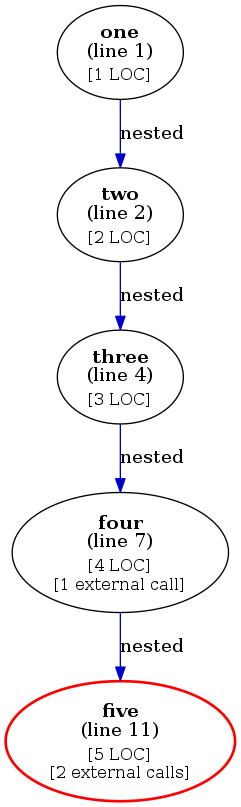
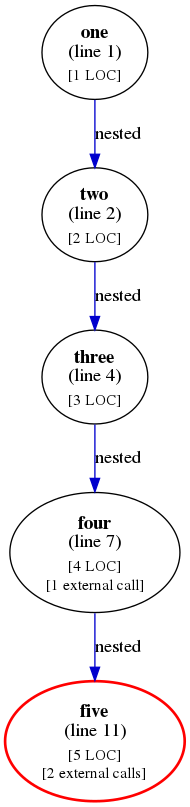
Compute stats outside PrintDot()
PrintDot should only contain logic related to the creation of dot files.

Move the code that generates stats in the Node and CodeLine classes.

diff --git a/callgraph/callgraph.py b/callgraph/callgraph.py
@@ -18,8 +18,12 @@ class CodeLine:
         self.text = text
         self.terminating = terminating
         self.noop = noop
-
         self.commands = []
+        self.commands_counter = collections.Counter()
+
+    def AddCommand(self, command):
+        self.commands.append(command)
+        self.commands_counter[command.command] += 1
 
     def __repr__(self):
         return "[{0} (terminating: {1}, noop: {2})] {3}".format(self.number, self.terminating, self.noop, self.text)
@@ -40,13 +44,24 @@ class Node:
         self.original_name = name
         self.is_exit_node = False
         self.code = []
+        self.loc = 0
 
     def AddConnection(self, dst, kind, line_number=NO_LINE_NUMBER):
         self.connections.add(Connection(dst, kind, line_number))
     
     def AddCodeLine(self, line_number, code):
         self.code.append(CodeLine(line_number, code.strip().lower(), False))
+        self.loc += 1
+    
+    def GetCommandCount(self):
+        node_counter = collections.Counter()
 
+        for line in self.code:
+            for command, count in line.commands_counter.items():
+                node_counter[command] += count
+        
+        return node_counter
+    
     def __repr__(self):
         return "{0}. {1}, {2}".format(self.name, self.code, self.connections)
 
@@ -94,25 +109,25 @@ class CallGraph:
                     block_name = tokens[i+1][1:]
                     if not block_name:
                         continue
-                    line.commands.append(Command("goto", block_name))
+                    line.AddCommand(Command("goto", block_name))
                     continue
 
                 if token == "call" or token == "@call":
                     target = tokens[i+1]
                     if target[0] != ":":
-                        line.commands.append(Command("external_call", target))
+                        line.AddCommand(Command("external_call", target))
                         continue
                     block_name = target[1:]
                     if not block_name:
                         continue
-                    line.commands.append(Command("call", block_name))
+                    line.AddCommand(Command("call", block_name))
                     continue
                 
                 if token == "exit" or token == "@exit":
                     target = ""
                     if i+1 < len(tokens):
                         target = tokens[i+1]
-                    line.commands.append(Command("exit", target))
+                    line.AddCommand(Command("exit", target))
             
             for command, target in line.commands:
                 if command == "call" or command == "goto":
@@ -152,9 +167,10 @@ class CallGraph:
                 label_lines.append("(line {})".format(node.line_number))
 
             if show_node_stats:
-                label_lines.append("<sub>[{} LOC]</sub>".format(len(node.code)))
-                commands = [l.command for c in node.code for l in c.commands]
-                external_call_count = commands.count("external_call")
+                label_lines.append("<sub>[{} LOC]</sub>".format(node.loc))
+                command_count = node.GetCommandCount()
+                external_call_count = command_count["external_call"]
+
                 if external_call_count > 0:
                     text = "call" if external_call_count == 1 else "calls"
                     label_lines.append("<sub>[{} external {}]</sub>".format(external_call_count, text))

diff --git a/tests/test_graphbuilding.py b/tests/test_graphbuilding.py
@@ -4,6 +4,17 @@ import unittest
 
 from callgraph import callgraph
 CodeLine = callgraph.CodeLine
+Command = callgraph.Command
+
+class CodeLineTest(unittest.TestCase):
+    def test_command_counters(self):
+        line = CodeLine(0, "foo")
+        line.AddCommand(Command("goto", ""))
+        line.AddCommand(Command("goto", ""))
+        line.AddCommand(Command("external_call", ""))
+
+        self.assertEqual(2, line.commands_counter["goto"])
+        self.assertEqual(1, line.commands_counter["external_call"])
 
 class CallGraphTest(unittest.TestCase):
     def setUp(self):
